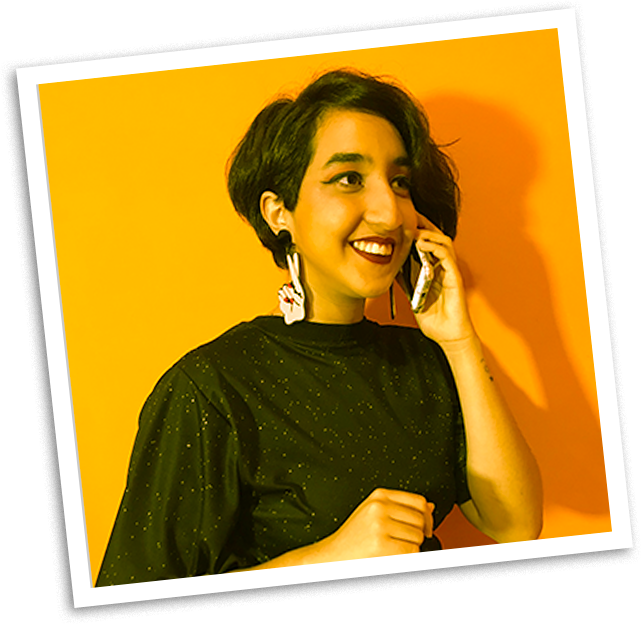
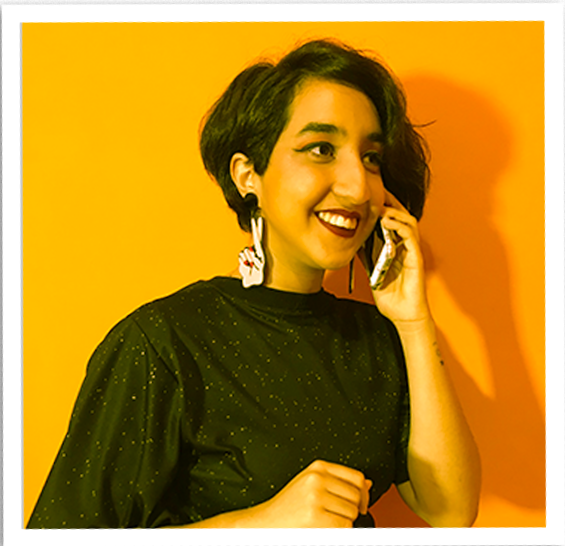
Rotacionar fotos

diff --git a/src/components/telas/cantoSuperiorEsquerdo/fotoTamis/FotoTamis.js b/src/components/telas/cantoSuperiorEsquerdo/fotoTamis/FotoTamis.js
@@ -3,11 +3,16 @@ import "./FotoTamis.css";
 
 function FotoTamis() {
     const [click,setClick] = useState(true);
-    const girar = () => {
+    const girar = (e) => {
         setClick(!click)
+        if(!click){
+            e.target.style.transform = "rotateY(180deg)"
+        } else {
+            e.target.style.transform = "rotateY(0deg)"
+        }
     }
   return (
-    <div className = {click ? "tamisFrente" : "tamisFundo"}
+    <div className = "tamisFrente"
     onClick={girar}>
         <div className='tamis'>
             <div className="tamiSeta" />
